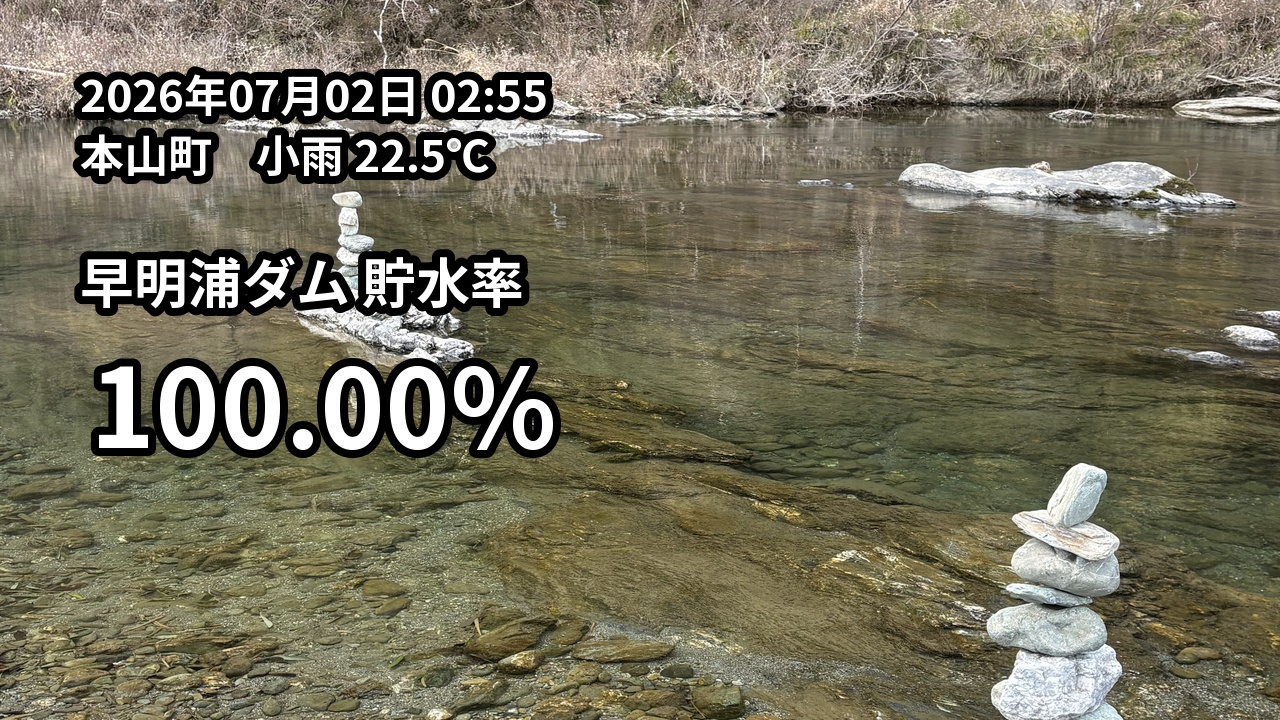
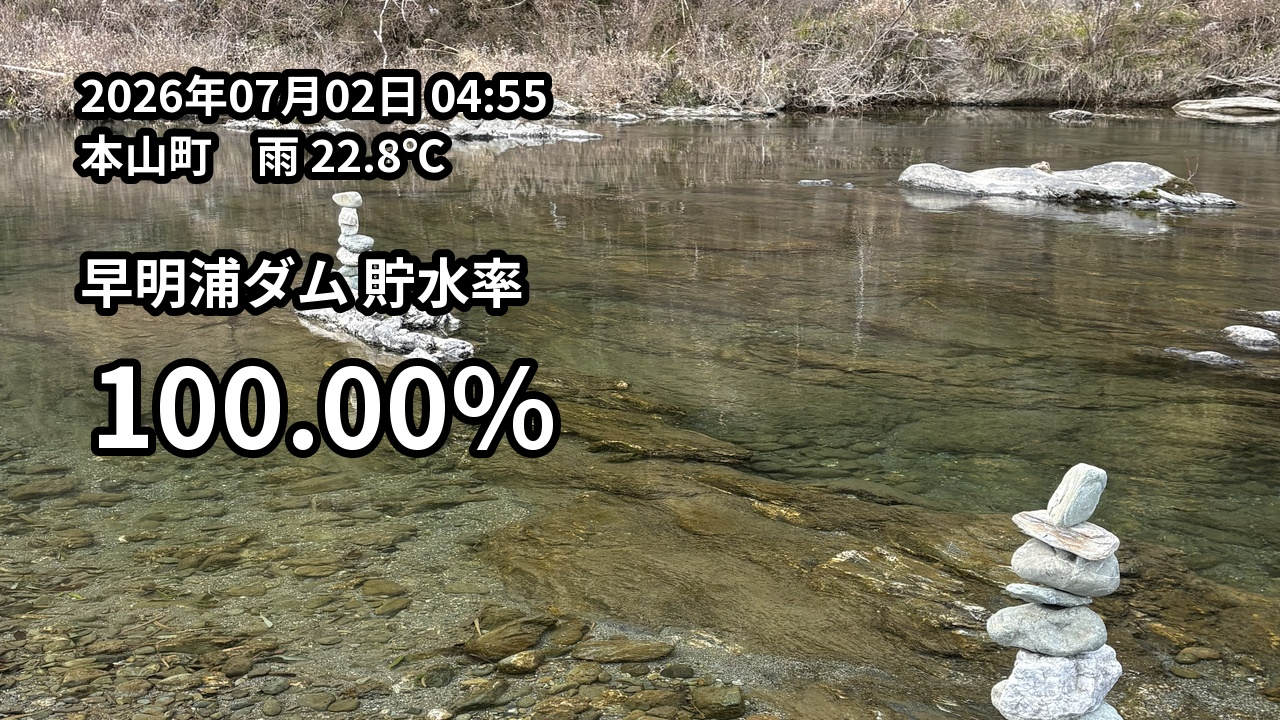
Update daily image

Changed region(s): [[0.1875, 0.0917, 0.4062, 0.275]]

diff --git a/index.html b/index.html
@@ -10,6 +10,6 @@
   </style>
 </head>
 <body>
-  <img src="result.jpg?v=202607020255" alt="早明浦ダム 貯水率" />
+  <img src="result.jpg?v=202607020455" alt="早明浦ダム 貯水率" />
 </body>
 </html>
